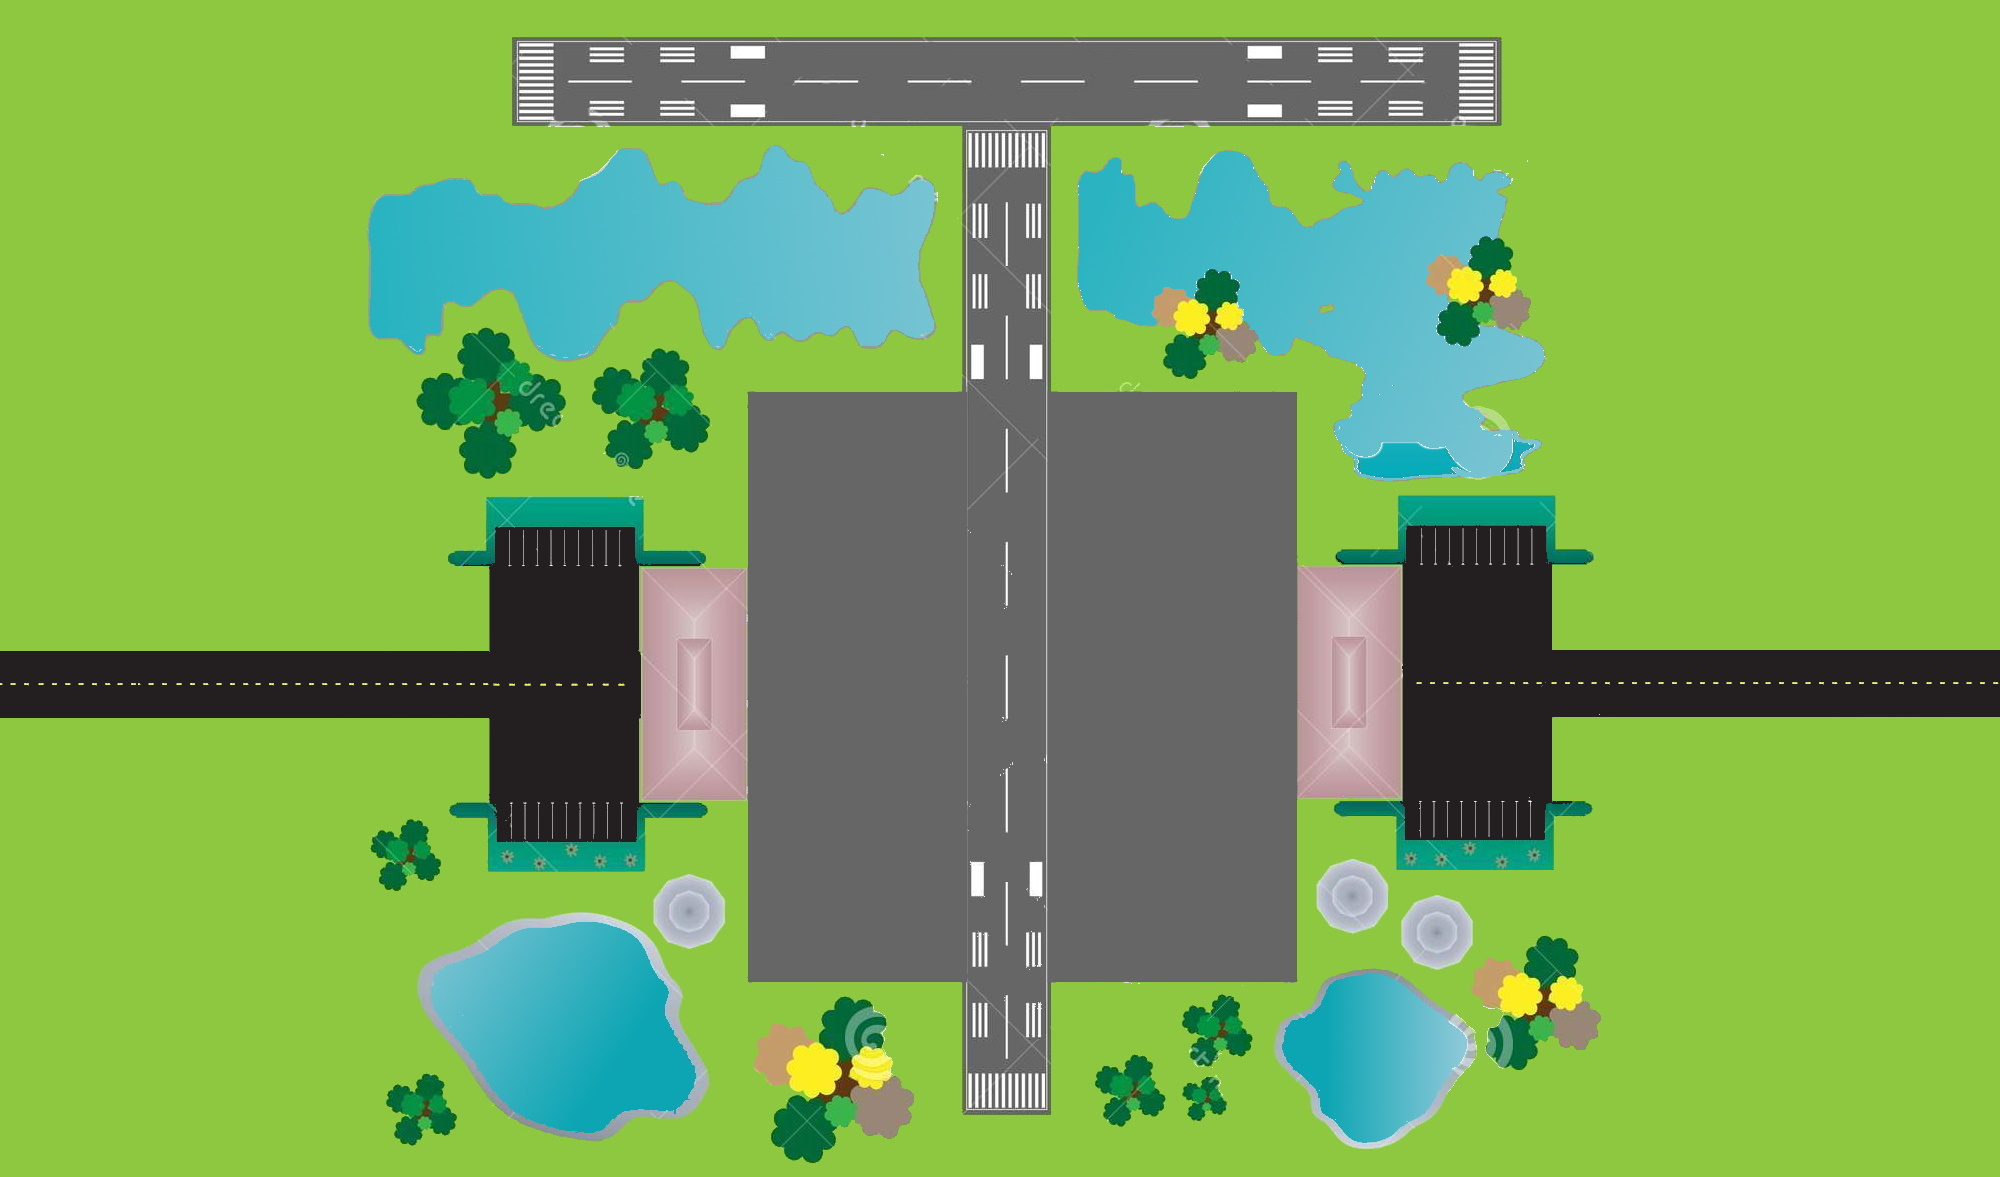
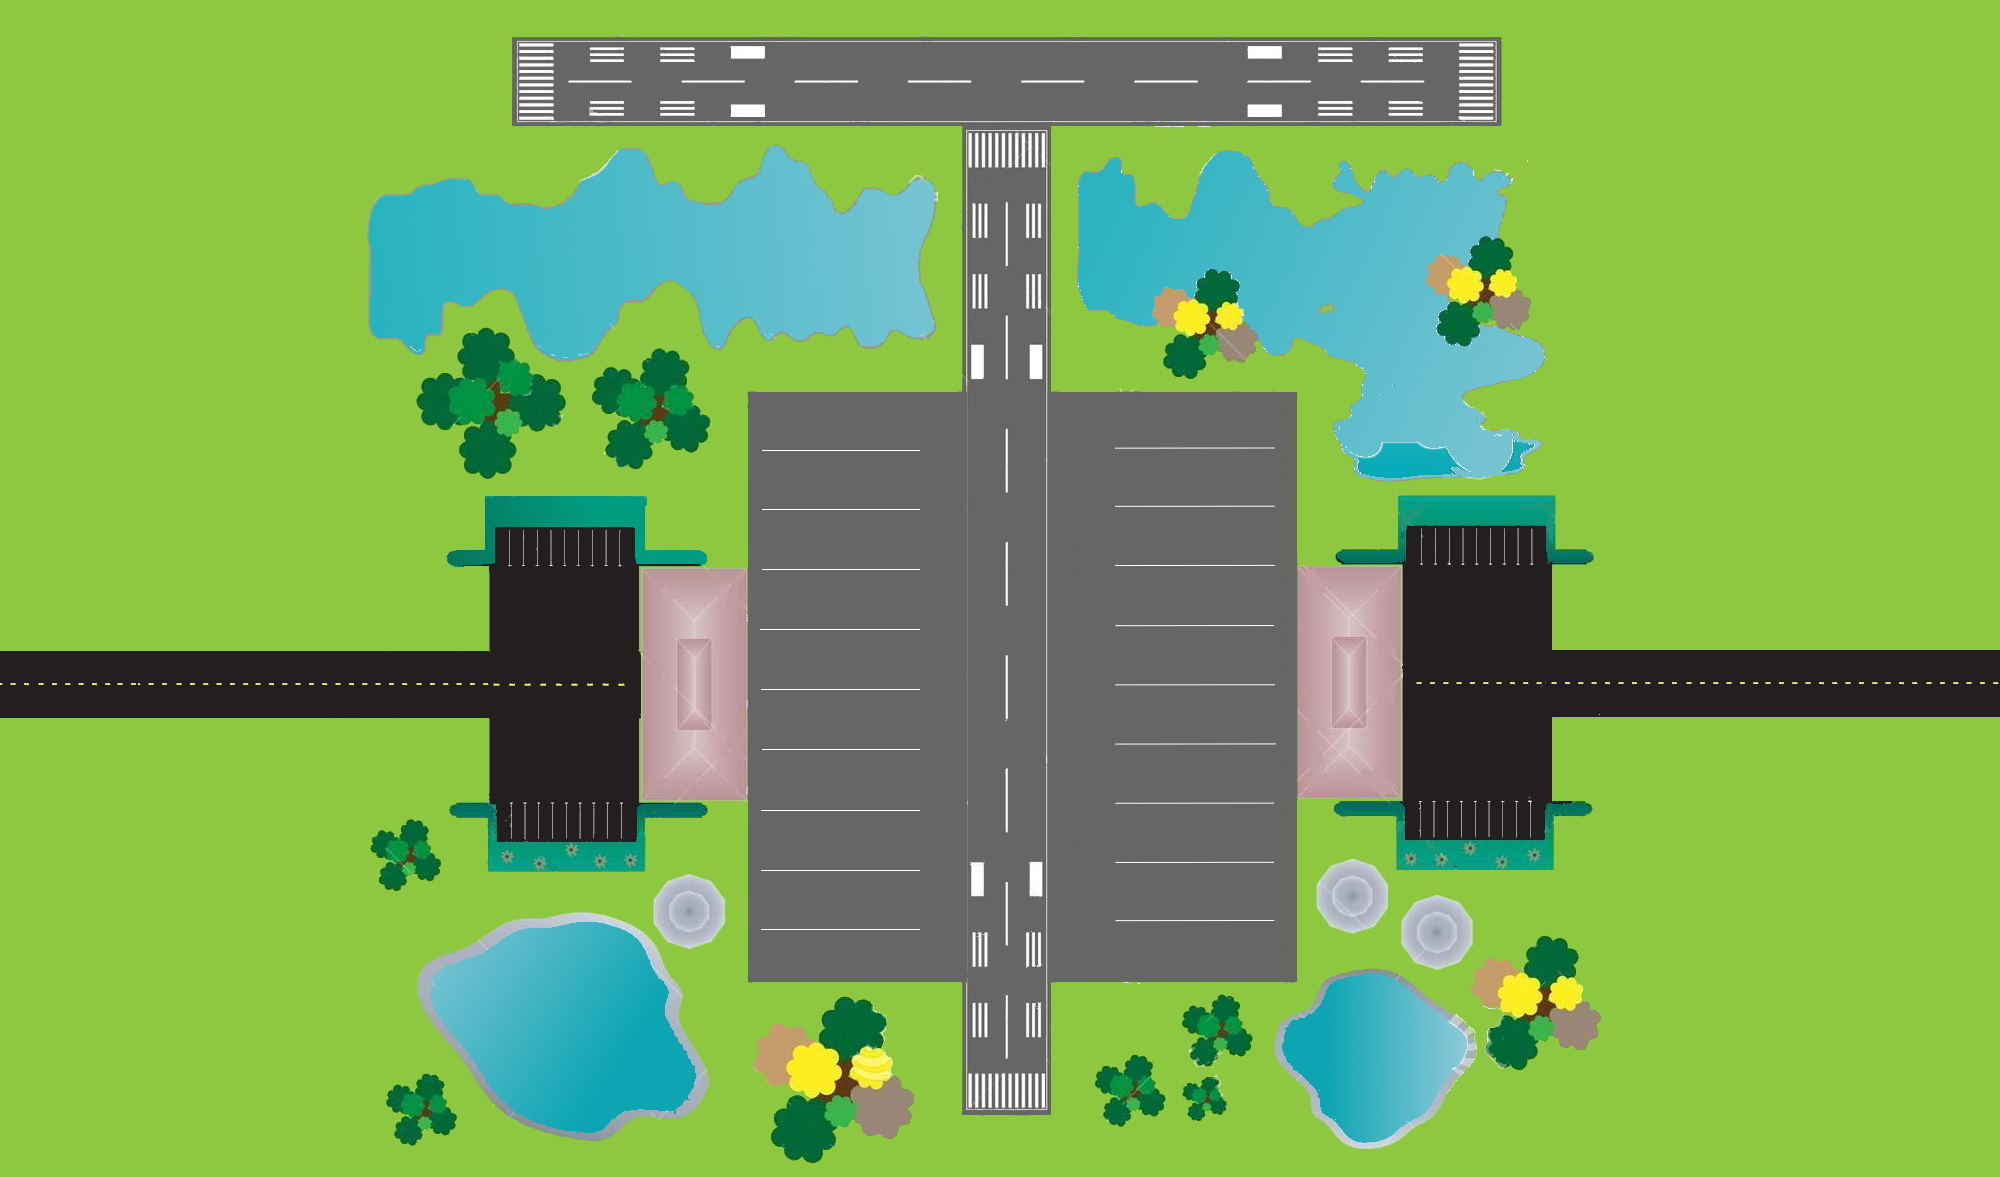
dashboard table

diff --git a/src/app/components/simulator/simulator.component.ts b/src/app/components/simulator/simulator.component.ts
@@ -1,4 +1,8 @@
 import { Component } from '@angular/core';
+import { BehaviorSubject, Observable } from 'rxjs';
+import { DataService } from 'src/app/services/data.service';
+import { Airplane } from 'src/model/Airplane';
+import { Flight } from 'src/model/Flight';
 
 @Component({
   selector: 'app-simulator',
@@ -6,8 +10,30 @@ import { Component } from '@angular/core';
   styleUrls: ['./simulator.component.scss']
 })
 export class SimulatorComponent {
-// how many airplans are about to flight in the following 40 min
-// how many airplans have landed in last 20 minutes
-// how many passengers are about to flight
-// how many passengers have landed in last 20 minutes
+  airplanesAbautToTakeOff: BehaviorSubject<Airplane[]> = new BehaviorSubject<Airplane[]>([]);
+  airplanesAbautToTakeOff$: Observable<Airplane[]> = this.airplanesAbautToTakeOff.asObservable();
+
+  planesThatHaveLanded: BehaviorSubject<Airplane[]> = new BehaviorSubject<Airplane[]>([]);
+  planesThatHaveLanded$: Observable<Airplane[]> = this.planesThatHaveLanded.asObservable();
+ 
+  leftParking:Airplane[]
+  rightParking: Airplane[]
+  lastMinutes:number = 40
+
+ constructor(private dataService: DataService){}
+  // how many airplans are about to flight in the following 40 min or have landed in last 20 minutes
+ // how many passengers are about to flight or have landed in last 20 minutes
+ ngOnInit(): void {
+  this.getFlights();
+ }
+ getFlights(){
+   this.dataService.getFlights(40).subscribe((data: Flight[]) => {
+    var ggg = data.filter(x => x.departureTime > new Date()).map(x => x.airplane);
+    this.airplanesAbautToTakeOff.next(ggg);
+    var hhh = data.filter(x => x.landingTime < new Date()).map(x => x.airplane);
+    this.planesThatHaveLanded.next(hhh);
+   })
+ }
+  
+
 }

diff --git a/src/app/services/data.service.ts b/src/app/services/data.service.ts
@@ -1,7 +1,9 @@
 import { Injectable } from '@angular/core';
 import { HttpClient, HttpClientModule  } from '@angular/common/http';
-import { Observable } from 'rxjs';
+import { map, Observable } from 'rxjs';
 import { Summary } from 'src/model/Summary';
+import { Flight } from 'src/model/Flight';
+import { FlightSummary } from 'src/model/FlightSummary';
 
 @Injectable({
   providedIn: 'root'
@@ -10,6 +12,18 @@ export class DataService {
   constructor(private http: HttpClient) { }
 
   getSummary(lastMinutes: number) : Observable<Summary> {
-    return this.http.get<Summary>('https://localhost:7261/api/Summary?lastMinutes=' + lastMinutes);
+    return this.http.get<Summary>('https://localhost:7261/api/summary?lastMinutes=' + lastMinutes);
   }
+  static FixData(flight: Flight): Flight {
+    var d = Object.assign({}, flight);
+    d.departureTime = d.departureTime ? new Date(d.departureTime) : undefined;
+    d.landingTime = d.landingTime ? new Date(d.landingTime) : undefined;
+    return d;
+  }
+  getFlights(lastMinutes: number): Observable<object[]> {
+    return this.http.get<object[]>('https://localhost:7261/api/flight?lastMinutes=' + lastMinutes)
+      .pipe(map((flights: FlightSummary[]) => {
+        return flights.map(x => DataService.FixData(x.flight));
+      }));
+  }  
 }

diff --git a/src/app/components/dashboard/dashboard.component.html b/src/app/components/dashboard/dashboard.component.html
@@ -1,13 +1,17 @@
 <div class="dashBoard">
-    <h3>Flights coming soon:</h3>
+    <h1>Flights coming soon</h1>
     <table>
      <tr>
        <th *ngFor="let flightHeader of flightHeaders">{{flightHeader}}</th>
      </tr>
-     <!-- <tr *ngFor="x in flightList">
-       <td>{{}}</td>
-       <td>{{}}</td>
-       <td>Germany</td>
-     </tr> -->
+     <tr *ngFor="let x in flightSummarys">
+       <td>{{x.flight.id}}</td>  
+       <td>
+        <span *ngIf="x.isLanding" class="material-symbols-outlined">flight_land</span>
+        <span *ngIf="!x.isLanding" class="material-symbols-outlined">flight_takeoff</span></td>
+       <td>{{countryToFlag(x.flight.fromAirport.Iso_country)}}</td>
+       <td>{{countryToFlag(x.flight.toAirport.Iso_country)}}</td>
+       <td>{{x.time}}</td> 
+     </tr>  
    </table>
  </div>

diff --git a/src/app/components/simulator/simulator.component.scss b/src/app/components/simulator/simulator.component.scss
@@ -1,0 +1,24 @@
+.airplane {
+    background-image: url(../../../assets/airplane.jpg);
+    background-position-x: center;
+    background-position-y: center;
+    background-size: contain;
+    background-repeat: no-repeat;
+    position: absolute;
+    width: 30px;
+    height: 30px;
+    &-parking1  { left: 1100px; }
+    &-parking2  { left: 1180px; }
+    &-landing   { left: 1253px; }
+    &-departure { left: 1030px; }
+    &.a0  { top: 502px; }
+    &.a1  { top: 533px; }
+    &.a2  { top: 565px; }
+    &.a3  { top: 597px; }
+    &.a4  { top: 628px; }
+    &.a5  { top: 660px; }
+    &.a6  { top: 692px; }
+    &.a7  { top: 723px; }
+    &.a8  { top: 755px; }
+    &.a9 { top: 782px; }
+}

diff --git a/src/app/components/simulator/simulator.component.html b/src/app/components/simulator/simulator.component.html
@@ -1,1 +1,5 @@
-<div></div>
+<div class="airplane airplane-departure a2"></div>
+<div *ngFor="let item of airplanesAbautToTakeOff$ | async; let i = index" [ngClass]="'airplane airplane-departure a' + i.toString()"></div>
+<div *ngFor="let item of planesThatHaveLanded$ | async; let i = index" [ngClass]="'airplane airplane-landing a' + i.toString()"></div> 
+<div *ngFor="let item of leftParking; let i = index" [ngClass]="'airplane airplane-parking1 a' + i.toString()"></div>
+<div *ngFor="let item of rightParking; let i = index" [ngClass]="'airplane airplane-parking2 a' + i.toString()"></div>

diff --git a/src/app/app.component.scss b/src/app/app.component.scss
@@ -67,15 +67,16 @@
     flex-direction: row; 
     justify-content: space-between; 
     align-items: center; 
-}
-.material-symbols-outlined {
-  font-size: 60px;
-  cursor: pointer;
-    font-variation-settings:
-    'FILL' 0,
-    'wght' 200,
-    'GRAD' -25,
-    'opsz' 48
+    .material-symbols-outlined {
+        font-size: 30px;
+        cursor: pointer;
+        margin-left: 1rem;
+        font-variation-settings:
+        'FILL' 1,
+        'wght' 700,
+        'GRAD' 0,
+        'opsz' 48
+    }
 }
 .searchBox{
     border: 0.5px solid rgb(175, 175, 175);

diff --git a/src/model/Airport.ts b/src/model/Airport.ts
@@ -1,0 +1,16 @@
+
+export class Airport{
+    constructor(
+       public Ident: string,
+        public Type: string,
+        public Name: string,
+        public Elevation_ft: string,
+        public Continent: string,
+        public Iso_country: string,
+        public Iso_region: string,
+        public Municipality: string,
+        public Gps_code: string,
+        public Iata_code: string,
+        public Local_code: string,
+        public Coordinates: string ) {}
+}

diff --git a/src/model/Flight.ts b/src/model/Flight.ts
@@ -1,0 +1,14 @@
+import { Airplane } from "./Airplane";
+import { Airport } from "./Airport";
+
+export class Flight{
+    constructor(
+        public id : string, 
+        public departureTime: Date,
+        public landingTime: Date,
+        public fromIdent: string,
+        public toIdent: string,
+        public fromAirport: Airport,
+        public toAirport: Airport,        
+        public airplane: Airplane ) {}
+}

diff --git a/src/app/components/dashboard/dashboard.component.scss b/src/app/components/dashboard/dashboard.component.scss
@@ -1,0 +1,19 @@
+.dashBoard{
+    margin: 2rem;
+}
+table {
+    font-family: 'Source Sans Pro', sans-serif;
+    width: 100%;
+}
+tr{
+    display: flex;
+    align-items: center;
+    justify-content: space-between;
+    border-bottom: 1px solid #dddddd;
+    padding-bottom: 1rem;
+    td, th {
+        text-align: left;
+        
+    }
+ }
+ 

diff --git a/src/model/Airplane.ts b/src/model/Airplane.ts
@@ -1,0 +1,11 @@
+export class Airplane{
+    id: string
+    firmID: string
+    totalSeats: number
+    constructor(airplane:Airplane){
+       this.id = airplane.id
+       this.firmID = airplane.firmID
+       this.totalSeats = airplane.totalSeats
+       
+    }
+}

diff --git a/src/model/FlightSummary.ts b/src/model/FlightSummary.ts
@@ -1,0 +1,9 @@
+import { Flight } from "./Flight";
+
+export class FlightSummary{
+    constructor(
+        public flight: Flight, 
+        public isLanding: boolean, // isoCode of airport,
+        public time: Date
+    ) {}
+}

diff --git a/src/styles.scss b/src/styles.scss
@@ -3,6 +3,7 @@ html, body {
     height: 100%;
     width: 100%;
     margin: 0;
+    font-family: "Source Sans Pro", sans-serif;
 }
 app-root{
     display: flex;
